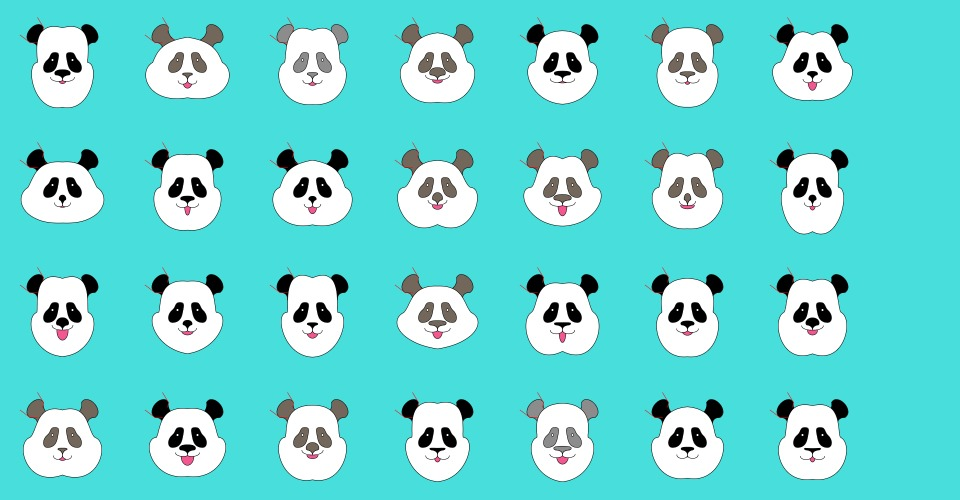
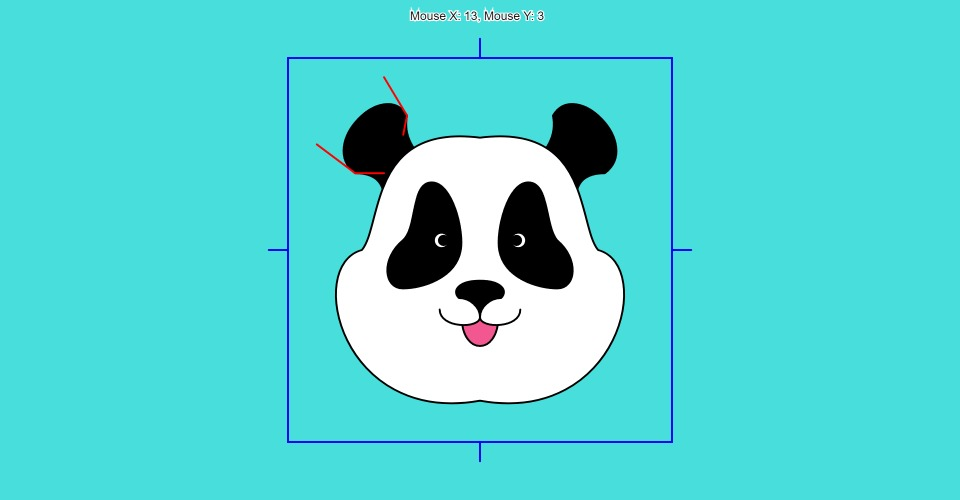
Eyes and eyeballs

diff --git a/face_code.js b/face_code.js
@@ -20,7 +20,7 @@
 // LF = Lower Face
 
 function myFace(topHead_angle, upperCheek_angle, MF_width, 
-                cheek_angle, jaw_angle, 
+                cheek_angle, jaw_angle, eye_width, 
                 nose_width, nose_height, 
                 mouth_width, mouth_height, colorValue){
   angleMode(DEGREES);
@@ -35,6 +35,7 @@ function myFace(topHead_angle, upperCheek_angle, MF_width,
   let DarkBrown = color('#8C4E03');
 
   let furColor = [Black, Gray, Brown, DarkBrown];
+  // stroke(furColor[colorValue]);
   
   push();
   fill(furColor[colorValue]);
@@ -45,11 +46,8 @@ function myFace(topHead_angle, upperCheek_angle, MF_width,
   
   push();
   fill(furColor[colorValue]);
-  eyes();
+  eyes(eye_width);
   pop();
-
-  ellipse(-2,-0.5,0.5);
-  ellipse(2,-0.5,0.5);
 
   push();
   fill(furColor[colorValue]);
@@ -194,8 +192,8 @@ function faceShape(topHead_angle, upperCheek_angle, MF_width, cheek_angle, jaw_a
   ///////////////////////////////////////////
 }
 
-function eyes(){
-  let eye_width = 3;
+function eyes(eye_width){
+  // let eye_width = 3;
 
   ////// Left eye
   let eyeLStart_X = -eye_width;
@@ -204,7 +202,7 @@ function eyes(){
   let eyeLEnd_Y = 0;
 
   let eyeLT_ed_X = -eye_width+1.5;
-  let eyeLT_ed_Y = -eye_width+1; // Left eye top
+  let eyeLT_ed_Y = -eye_width+0.5; // Left eye top
   let eyeLD_ed_X = -eye_width;
   let eyeLD_ed_Y = 2; // Left eye bottom
   
@@ -260,7 +258,7 @@ function eyes(){
  let eyeREnd_Y = 0;
 
  let eyeRT_ed_X = eye_width-1.5;
- let eyeRT_ed_Y = -eye_width+1; // Left eye top
+ let eyeRT_ed_Y = -eye_width+0.5; // Left eye top
  let eyeRD_ed_X = eye_width;
  let eyeRD_ed_Y = 2; // Left eye bottom
  
@@ -309,6 +307,18 @@ function eyes(){
  endShape();
 
  /////////////////////////////////////////
+
+  // Draw eye balls
+  push();
+  fill(255);
+  ellipse(-2,-0.5,eye_width*0.2);
+  ellipse(2,-0.5,eye_width*0.2);
+  fill(0);
+  ellipse(-1.9,-0.5,eye_width*0.12);
+  ellipse(1.9,-0.5,eye_width*0.12);
+  pop();
+
+
   // Draw Control lines
   stroke(255,0,0);
   strokeWeight(0.1);

diff --git a/arrangement.js b/arrangement.js
@@ -55,9 +55,10 @@ function draw () {
      
         let topHead_angle = random(170, 210);
         let upperCheek_angle = random(-30, -70);
-        let MF_width = random(5, 7);
+        let MF_width = random(5.5, 6.8);
         let cheek_angle = random(-5,35);
         let jaw_angle = random(-10,30);
+        let eye_width = random(3, 4.5);
         let nose_width = random(0.5, 1.7);
         let nose_height = random(1, 2.2);
         let mouth_width = random(0.5, 1.4);
@@ -82,13 +83,13 @@ function draw () {
         translate(x, y);
         scale(w/25, h/25);
         let spinnerValue = random(0, 100);
-        if(spinnerValue < 70){
+        if(spinnerValue < 60){
           colorValue = 0;
         } else{
-          colorValue = int(random(1, 3));
+          colorValue = int(random(1, 3.5));
         }
         myFace(topHead_angle, upperCheek_angle, MF_width, 
-                cheek_angle, jaw_angle, 
+                cheek_angle, jaw_angle, eye_width, 
                 nose_width, nose_height, 
                 mouth_width, mouth_height, 
                 colorValue);

diff --git a/editor.js b/editor.js
@@ -95,9 +95,10 @@ function draw () {
   if (mode == '1') {
     let topHead_angle = map(s1, 0, 100, 175, 200);
     let upperCheek_angle = map(s2, 0, 100, -30, -70);
-    let MF_width = map(s3, 0, 100, 5, 7);
+    let MF_width = map(s3, 0, 100, 5.5, 6.8);
     let cheek_angle = map(s4, 0, 100, -5, 35);
     let jaw_angle = map(s5, 0, 100, -10, 30);
+    let eye_width = map(s7, 0, 100, 3, 4.5);
     let nose_width = map(s8, 0, 100, 0.5, 1.7);
     let nose_height = map(s9, 0, 100, 1, 2.2);
     let mouth_width = map(s10, 0, 100, 0.5, 1.4);
@@ -105,7 +106,7 @@ function draw () {
     let colorValue = int(map(s12, 0, 100, 0, 3));
 
     myFace(topHead_angle, upperCheek_angle, MF_width, 
-          cheek_angle, jaw_angle, 
+          cheek_angle, jaw_angle, eye_width, 
           nose_width, nose_height, 
           mouth_width, mouth_height, 
           colorValue);

diff --git a/README.md b/README.md
@@ -3,4 +3,4 @@
 ## 2023 MDDN342 Assignment 2: Randomised Collections
 **This is where you talk about your project!**
 
->Four color options available.
+>Eyes shape changing added, as well as the eyeballs. I think the panda looks cute now.
